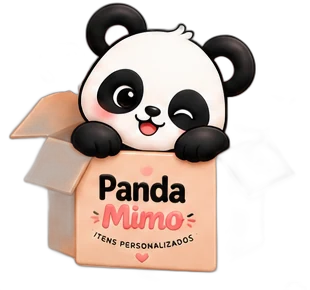
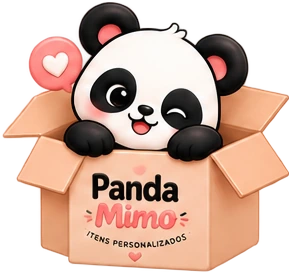
fix: usa o canal alpha original dos adesivos em vez de remoção de fundo
As folhas de adesivos já vinham com transparência. Cada peça agora é
extraída pelo próprio alpha (componentes conectados), sem modelo de
segmentação, com bordas exatas do arquivo. O selo redondo passa a ser
a versão 3D transparente. Ícones dos diferenciais: só o glifo,
sobre um selo redondo desenhado em CSS.

Claude-Session: https://claude.ai/code/session_01LUHnjXVrB14Zo46Cd7b8mY

diff --git a/panda-mimo/index.html b/panda-mimo/index.html
@@ -33,7 +33,7 @@
 <!-- ======================= AVISO ======================= -->
 <div class="announce" role="region" aria-label="Avisos">
   <div class="wrap announce__in">
-    <img src="assets/sino.webp" alt="" width="168" height="161">
+    <img src="assets/sino.webp" alt="" width="138" height="160">
     <p><strong>Frete grátis</strong> para algumas regiões: consulte seu CEP no pedido. Enviamos para <strong>todo o Brasil</strong>.</p>
   </div>
 </div>
@@ -41,7 +41,7 @@
 <header class="topbar">
   <div class="wrap topbar__in">
     <a class="brand" href="#inicio" aria-label="Panda Mimo — início">
-      <img src="assets/logo-pill.webp" alt="Panda Mimo — itens personalizados" width="214" height="62">
+      <img src="assets/logo-pill.webp" alt="Panda Mimo — itens personalizados" width="428" height="121">
     </a>
     <nav class="nav" aria-label="Principal">
       <a href="#produtos">Produtos</a>
@@ -91,11 +91,11 @@
         </ul>
       </div>
       <figure class="hero__art">
-        <img class="heart-img" src="assets/coracao-costura.webp" alt="" width="230" height="200" aria-hidden="true">
+        <img class="heart-img" src="assets/coracao-costura.webp" alt="" width="201" height="176" aria-hidden="true">
         <span class="heart heart--b" aria-hidden="true"></span>
         <span class="heart heart--c" aria-hidden="true"></span>
         <img class="hero__mascot" src="assets/mascote-hero.webp" alt="Mascote da Panda Mimo: um panda sorridente abraçando uma garrafa térmica personalizada" width="762" height="968" fetchpriority="high">
-        <img class="hero__tag" src="assets/tag-especial.webp" alt="Etiqueta: feito especialmente para você!" width="147" height="271">
+        <img class="hero__tag" src="assets/tag-especial.webp" alt="Etiqueta: feito especialmente para você!" width="143" height="267">
       </figure>
     </div>
   </section>
@@ -104,15 +104,15 @@
   <section class="trust" aria-label="Garantias">
     <div class="wrap trust__in">
       <div class="trust__item">
-        <img src="assets/selo-frete.webp" alt="" width="279" height="345" loading="lazy">
+        <img src="assets/selo-frete.webp" alt="" width="275" height="346" loading="lazy">
         <div><h3>Frete grátis</h3><p>Para algumas regiões. Consulte seu CEP no pedido.</p></div>
       </div>
       <div class="trust__item">
-        <img src="assets/selo-seguro.webp" alt="" width="245" height="255" loading="lazy">
+        <img src="assets/selo-seguro.webp" alt="" width="243" height="258" loading="lazy">
         <div><h3>Compra 100% segura</h3><p>Pix ou cartão por link seguro. Você só paga depois de aprovar a prévia.</p></div>
       </div>
       <div class="trust__item">
-        <img src="assets/selo-qualidade.webp" alt="" width="241" height="270" loading="lazy">
+        <img src="assets/selo-qualidade.webp" alt="" width="236" height="286" loading="lazy">
         <div><h3>Qualidade garantida</h3><p>Chegou com defeito? A gente refaz sem custo. É só avisar em até 7 dias.</p></div>
       </div>
     </div>
@@ -131,7 +131,7 @@
 
       <div class="products">
         <article class="product">
-          <div class="product__photo"><img src="assets/foto-garrafas.webp" alt="Duas garrafas térmicas personalizadas Panda Mimo, uma creme e uma verde sálvia, com tag de papel" loading="lazy" width="700" height="676"></div>
+          <div class="product__photo"><img src="assets/foto-garrafas.webp" alt="Duas garrafas térmicas personalizadas Panda Mimo, uma creme e uma verde sálvia, com tag de papel" loading="lazy" width="700" height="679"></div>
           <div class="product__body">
             <h3>Garrafas térmicas</h3>
             <p>Aço inox com tampa de alça. Mantém gelado por horas. Perfeitas pra treino, trabalho e escola.</p>
@@ -151,7 +151,7 @@
         </article>
 
         <article class="product">
-          <div class="product__photo product__photo--sticker"><img src="assets/panda-copo.webp" alt="Mascote Panda Mimo abraçando um copo térmico com tampa" loading="lazy" width="380" height="390"></div>
+          <div class="product__photo product__photo--sticker"><img src="assets/panda-copo.webp" alt="Mascote Panda Mimo abraçando um copo térmico com tampa" loading="lazy" width="407" height="395"></div>
           <div class="product__body">
             <h3>Copos térmicos</h3>
             <p>Com tampa e canudo. O queridinho de quem vive de café gelado, chá ou água com limão.</p>
@@ -181,7 +181,7 @@
         </article>
 
         <article class="product product--soon">
-          <div class="product__photo product__photo--sticker"><img src="assets/panda-novidades.webp" alt="Mascote Panda Mimo segurando uma placa: novidades em breve" loading="lazy" width="259" height="290"></div>
+          <div class="product__photo product__photo--sticker"><img src="assets/panda-novidades.webp" alt="Mascote Panda Mimo segurando uma placa: novidades em breve" loading="lazy" width="255" height="285"></div>
           <div class="product__body">
             <h3>Novidades em breve</h3>
             <p>Estamos testando peças novas. Quer ser avisado quando saírem? A gente manda uma mensagem, sem spam.</p>
@@ -197,7 +197,7 @@
   <section class="section section--sand" id="monte">
     <div class="wrap">
       <header class="section__head section__head--sticker">
-        <img src="assets/coracao-jeito.webp" alt="Coração pontilhado: personalizado do seu jeito" width="243" height="204" loading="lazy">
+        <img src="assets/coracao-jeito.webp" alt="Coração pontilhado: personalizado do seu jeito" width="238" height="202" loading="lazy">
         <p class="eyebrow"><span class="eyebrow__dot"></span> Experimente <span class="eyebrow__dot"></span></p>
         <h2 class="display">Monte seu mimo</h2>
         <p class="lede">Escreva um nome, escolha a base e a cor. É só uma prévia: a arte final a gente faz juntos.</p>
@@ -318,7 +318,7 @@
             </g>
           </svg>
           <div class="builder__foot">
-            <img src="assets/panda-joinha.webp" alt="" width="216" height="208" loading="lazy">
+            <img src="assets/panda-joinha.webp" alt="" width="212" height="206" loading="lazy">
             <p class="builder__note"><span class="hand">Só uma prévia, tá?</span> Cores e proporções finais variam com a peça.</p>
           </div>
         </div>
@@ -335,7 +335,7 @@
           <h2 class="display">Um presente que diz <span class="hand">"pensei em você"</span></h2>
           <p class="lede">Não sabe por onde começar? A gente já separou sugestões pelas ocasiões que mais chegam por aqui. É só clicar e a conversa começa com a ideia pronta.</p>
         </div>
-        <img src="assets/panda-presente-2.webp" alt="Mascote Panda Mimo abrindo uma caixa de presente com laço" width="283" height="340" loading="lazy">
+        <img src="assets/panda-presente-2.webp" alt="Mascote Panda Mimo abrindo uma caixa de presente com laço" width="254" height="364" loading="lazy">
       </div>
 
       <ul class="occasions">
@@ -382,7 +382,7 @@
   <!-- ======================= PEDIDOS EM QUANTIDADE ======================= -->
   <section class="section section--sand" id="empresas">
     <div class="wrap bulk">
-      <img class="bulk__art" src="assets/panda-carrinho.webp" alt="Mascote Panda Mimo dentro de um carrinho de compras" width="274" height="315" loading="lazy">
+      <img class="bulk__art" src="assets/panda-carrinho.webp" alt="Mascote Panda Mimo dentro de um carrinho de compras" width="270" height="320" loading="lazy">
       <div class="bulk__copy">
         <p class="eyebrow"><span class="eyebrow__dot"></span> Pedidos em quantidade <span class="eyebrow__dot"></span></p>
         <h2 class="display">Pra turma toda, pro time inteiro</h2>
@@ -420,13 +420,13 @@
         </li>
         <li class="step">
           <span class="step__n">3</span>
-          <img class="step__sticker" src="assets/panda-joinha.webp" alt="" width="216" height="208" loading="lazy">
+          <img class="step__sticker" src="assets/panda-joinha.webp" alt="" width="212" height="206" loading="lazy">
           <h3>Aprove a prévia</h3>
           <p>Enviamos a arte montada na peça. Só produzimos depois do seu "pode fazer".</p>
         </li>
         <li class="step">
           <span class="step__n">4</span>
-          <img class="step__sticker" src="assets/panda-caixa.webp" alt="" width="310" height="290" loading="lazy">
+          <img class="step__sticker" src="assets/panda-caixa.webp" alt="" width="291" height="274" loading="lazy">
           <h3>Receba em casa</h3>
           <p>Embalado em caixa kraft com bilhetinho, pronto pra dar de presente (ou ficar pra você).</p>
         </li>
@@ -446,27 +446,27 @@
 
       <ul class="promises">
         <li class="promise">
-          <img src="assets/ic-produtos.webp" alt="" width="116" height="116" loading="lazy">
+          <span class="promise__badge"><img src="assets/ic-produtos.webp" alt="" width="59" height="78" loading="lazy"></span>
           <h3>Produtos personalizados</h3>
           <p>Nome, frase, data, desenho. Se cabe na peça, cabe no pedido. Uma unidade já é pedido.</p>
         </li>
         <li class="promise">
-          <img src="assets/ic-carinho.webp" alt="" width="116" height="116" loading="lazy">
+          <span class="promise__badge"><img src="assets/ic-carinho.webp" alt="" width="60" height="68" loading="lazy"></span>
           <h3>Feito com carinho</h3>
           <p>Cada peça passa pelas nossas mãos, uma de cada vez. Nada sai sem conferência.</p>
         </li>
         <li class="promise">
-          <img src="assets/ic-ideias.webp" alt="" width="116" height="116" loading="lazy">
+          <span class="promise__badge"><img src="assets/ic-ideias.webp" alt="" width="64" height="79" loading="lazy"></span>
           <h3>Ideias que encantam</h3>
           <p>Não sabe o que escrever? A gente sugere. Já ajudamos a resolver muito presente de última hora.</p>
         </li>
         <li class="promise">
-          <img src="assets/ic-envio.webp" alt="" width="116" height="116" loading="lazy">
+          <span class="promise__badge"><img src="assets/ic-envio.webp" alt="" width="64" height="69" loading="lazy"></span>
           <h3>Envio para todo o Brasil</h3>
           <p>Caixa kraft, proteção interna e o bilhetinho por cima. Código de rastreio no WhatsApp.</p>
         </li>
         <li class="promise">
-          <img src="assets/ic-qualidade.webp" alt="" width="116" height="116" loading="lazy">
+          <span class="promise__badge"><img src="assets/ic-qualidade.webp" alt="" width="56" height="78" loading="lazy"></span>
           <h3>Qualidade garantida</h3>
           <p>Inox que não amassa no primeiro tombo, cerâmica que aguenta a máquina, impressão que não sai na lavagem.</p>
         </li>
@@ -522,7 +522,7 @@
       <div class="gallery">
         <figure><img src="assets/foto-garrafa-solo.webp" alt="Garrafa térmica creme personalizada Panda Mimo" loading="lazy" width="700" height="700"></figure>
         <figure><img src="assets/foto-caneca-2.webp" alt="Caneca creme com alça preta e logo Panda Mimo" loading="lazy" width="700" height="630"></figure>
-        <figure class="gallery__mascot"><img src="assets/panda-presente.webp" alt="Mascote Panda Mimo segurando uma caixa de presente com laço" loading="lazy" width="365" height="420"></figure>
+        <figure class="gallery__mascot"><img src="assets/panda-presente.webp" alt="Mascote Panda Mimo segurando uma caixa de presente com laço" loading="lazy" width="348" height="425"></figure>
         <figure><img src="assets/foto-tag.webp" alt="Tag redonda personalizada com cordão" loading="lazy" width="700" height="875"></figure>
         <figure><img src="assets/foto-caixa.webp" alt="Caixa kraft com fita e logo Panda Mimo" loading="lazy" width="700" height="671"></figure>
         <figure class="gallery__mascot"><img src="assets/mascote-garrafa.webp" alt="Mascote Panda Mimo segurando uma garrafinha" loading="lazy" width="248" height="322"></figure>
@@ -534,7 +534,7 @@
   <section class="section" id="duvidas">
     <div class="wrap faq">
       <aside class="faq__side">
-        <img src="assets/balao-duvidas.webp" alt="Balão de fala: tire suas dúvidas, estamos aqui para te ajudar" width="265" height="203" loading="lazy">
+        <img src="assets/balao-duvidas.webp" alt="Balão de fala: tire suas dúvidas, estamos aqui para te ajudar" width="266" height="203" loading="lazy">
         <p class="eyebrow"><span class="eyebrow__dot"></span> Dúvidas frequentes <span class="eyebrow__dot"></span></p>
         <h2 class="display">Tire suas dúvidas</h2>
         <p class="lede">Não achou a sua? Manda no WhatsApp que a gente responde de verdade, sem robô.</p>
@@ -581,7 +581,7 @@
   <!-- ======================= SIGA ======================= -->
   <section class="section section--dark" id="siga">
     <div class="wrap follow">
-      <img class="follow__art" src="assets/celular-siga.webp" alt="Celular com o mascote Panda Mimo e os ícones do Instagram, TikTok e WhatsApp" width="203" height="280" loading="lazy">
+      <img class="follow__art" src="assets/celular-siga.webp" alt="Celular com o mascote Panda Mimo e os ícones do Instagram, TikTok e WhatsApp" width="200" height="285" loading="lazy">
       <div class="follow__copy">
         <p class="eyebrow eyebrow--light"><span class="eyebrow__dot"></span> Nos acompanhe <span class="eyebrow__dot"></span></p>
         <h2 class="display">Bastidores, novidades e <span class="hand hand--peach">muito panda</span></h2>
@@ -618,8 +618,8 @@
         </dl>
       </div>
       <div class="contact__art">
-        <img class="contact__logo" src="assets/logo-redondo.webp" alt="Selo redondo Panda Mimo — itens personalizados" width="320" height="320" loading="lazy">
-        <img class="contact__bubble" src="assets/balao-frase.webp" alt="Balão de fala: feito com carinho, feito pra você!" width="275" height="310" loading="lazy">
+        <img class="contact__logo" src="assets/logo-redondo.webp" alt="Selo redondo Panda Mimo — itens personalizados" width="488" height="507" loading="lazy">
+        <img class="contact__bubble" src="assets/balao-frase.webp" alt="Balão de fala: feito com carinho, feito pra você!" width="255" height="296" loading="lazy">
       </div>
     </div>
   </section>
@@ -628,10 +628,10 @@
 
 <footer class="footer">
   <div class="stitch stitch--footer" aria-hidden="true">
-    <img class="footer__sleep" src="assets/panda-dormindo.webp" alt="" width="368" height="223" loading="lazy">
+    <img class="footer__sleep" src="assets/panda-dormindo.webp" alt="" width="365" height="228" loading="lazy">
   </div>
   <div class="wrap footer__in">
-    <img class="footer__brand" src="assets/logo-empilhado.webp" alt="Panda Mimo — itens personalizados" width="374" height="250" loading="lazy">
+    <img class="footer__brand" src="assets/logo-empilhado.webp" alt="Panda Mimo — itens personalizados" width="372" height="236" loading="lazy">
     <p class="footer__tag hand">Feito com carinho, feito pra você.</p>
     <nav class="footer__nav" aria-label="Rodapé">
       <a href="#produtos">Produtos</a>

diff --git a/panda-mimo/styles.css b/panda-mimo/styles.css
@@ -512,8 +512,7 @@ h2 .hand { font-size: 1.15em; }
 .contact__meta dd { margin: 0; font-size: var(--fs-s); }
 .contact__logo {
   width: min(100%, 320px); margin-inline: auto;
-  border-radius: 50%;
-  box-shadow: 0 24px 50px -20px rgba(23, 21, 18, .35);
+  filter: drop-shadow(0 24px 30px rgba(23, 21, 18, .28));
   rotate: -4deg;
 }
 
@@ -634,7 +633,15 @@ h2 .hand { font-size: 1.15em; }
 .step__sticker { position: absolute; top: .6rem; right: .7rem; width: 74px; height: auto; }
 
 /* ---------- diferenciais: ícones redondos ---------- */
-.promise img { width: 76px; height: 76px; object-fit: contain; border-radius: 50%; filter: drop-shadow(0 8px 14px rgba(0,0,0,.4)); }
+.promise__badge {
+  display: grid; place-items: center;
+  width: 78px; height: 78px; border-radius: 50%;
+  background: radial-gradient(circle at 35% 30%, #FFFDF8, var(--cream) 70%);
+  border: 5px solid var(--peach);
+  box-shadow: 0 10px 20px -8px rgba(0,0,0,.6), inset 0 -4px 8px rgba(23,21,18,.08);
+  margin-bottom: .3rem;
+}
+.promise__badge img { width: 46px; height: 46px; object-fit: contain; }
 
 /* ---------- cuidados ---------- */
 .care { display: grid; grid-template-columns: repeat(3, minmax(0, 1fr)); gap: 1.2rem; }
